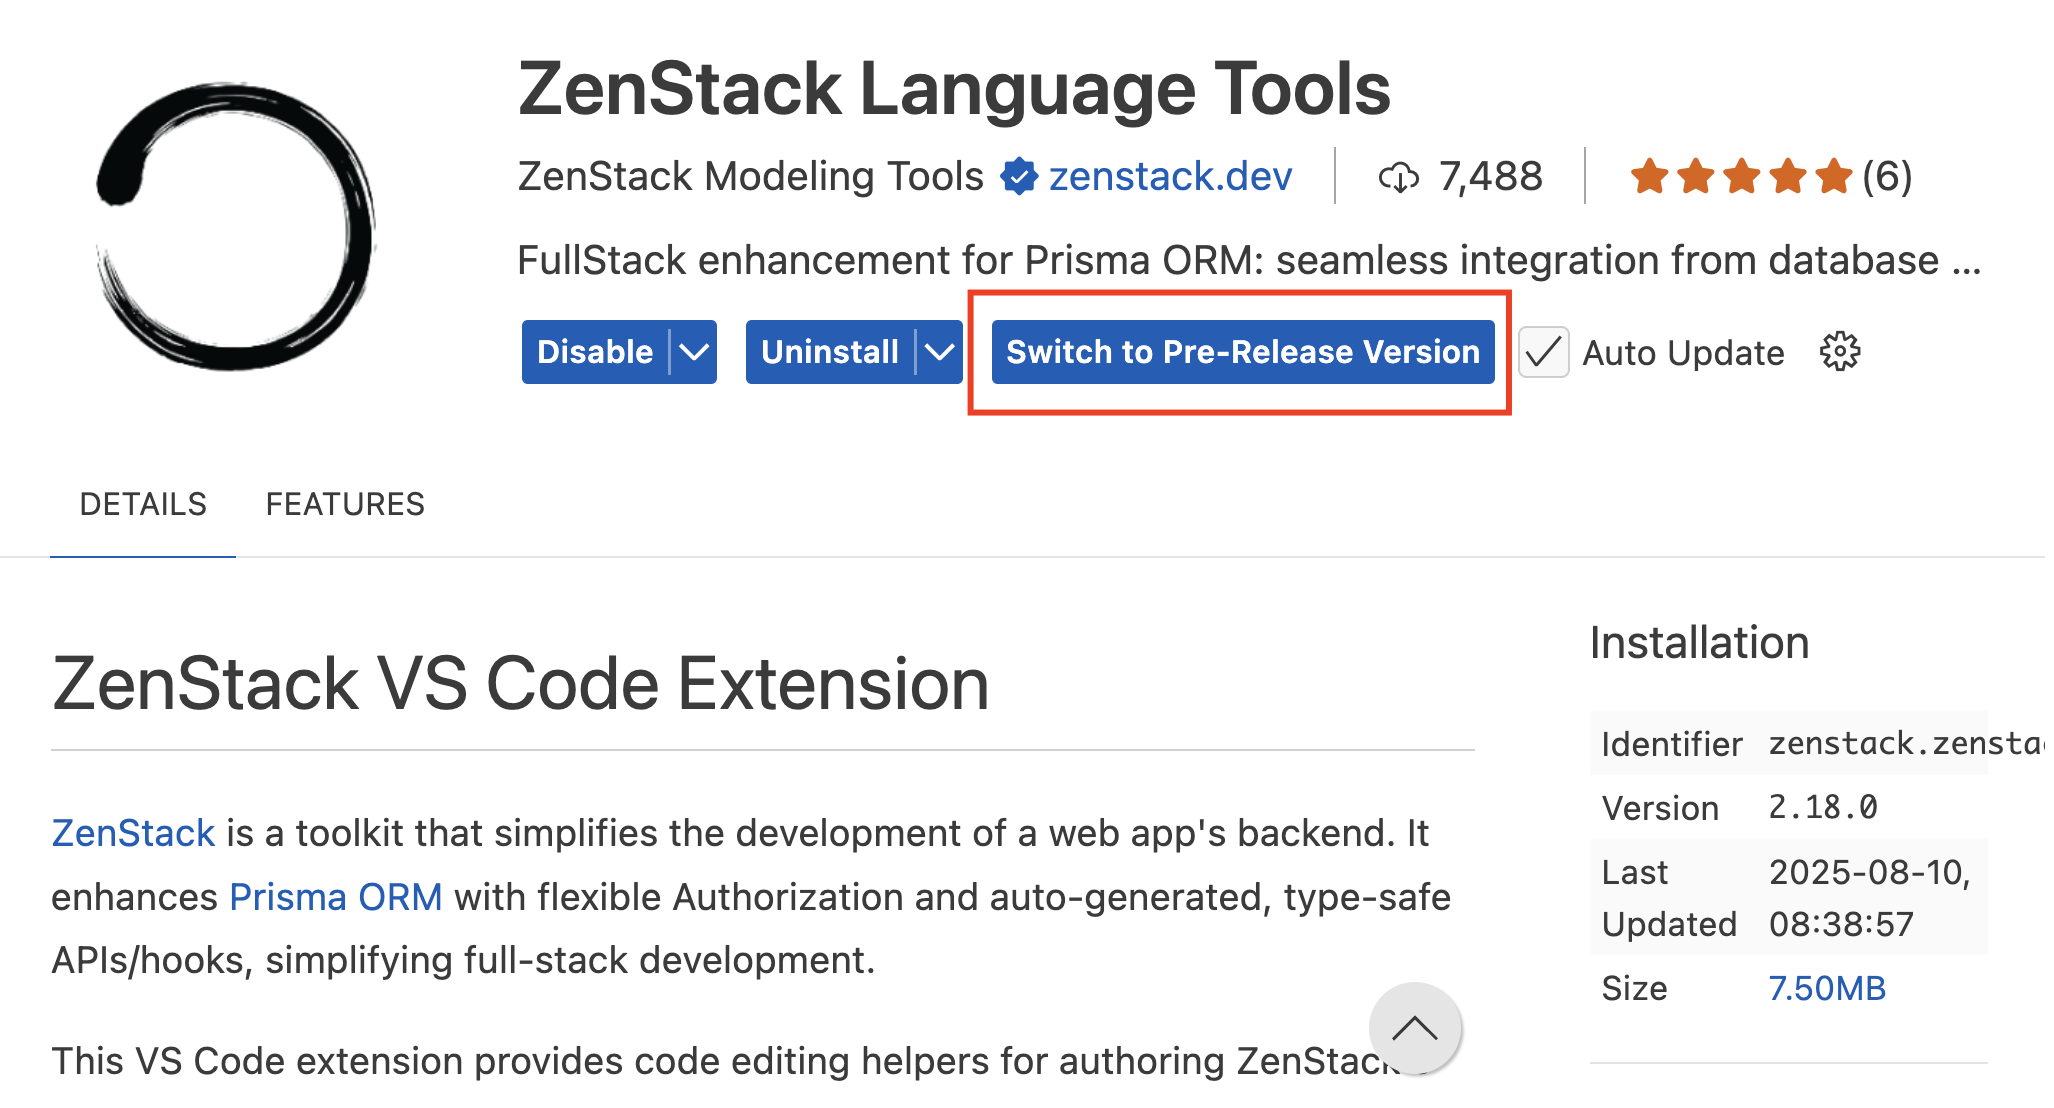
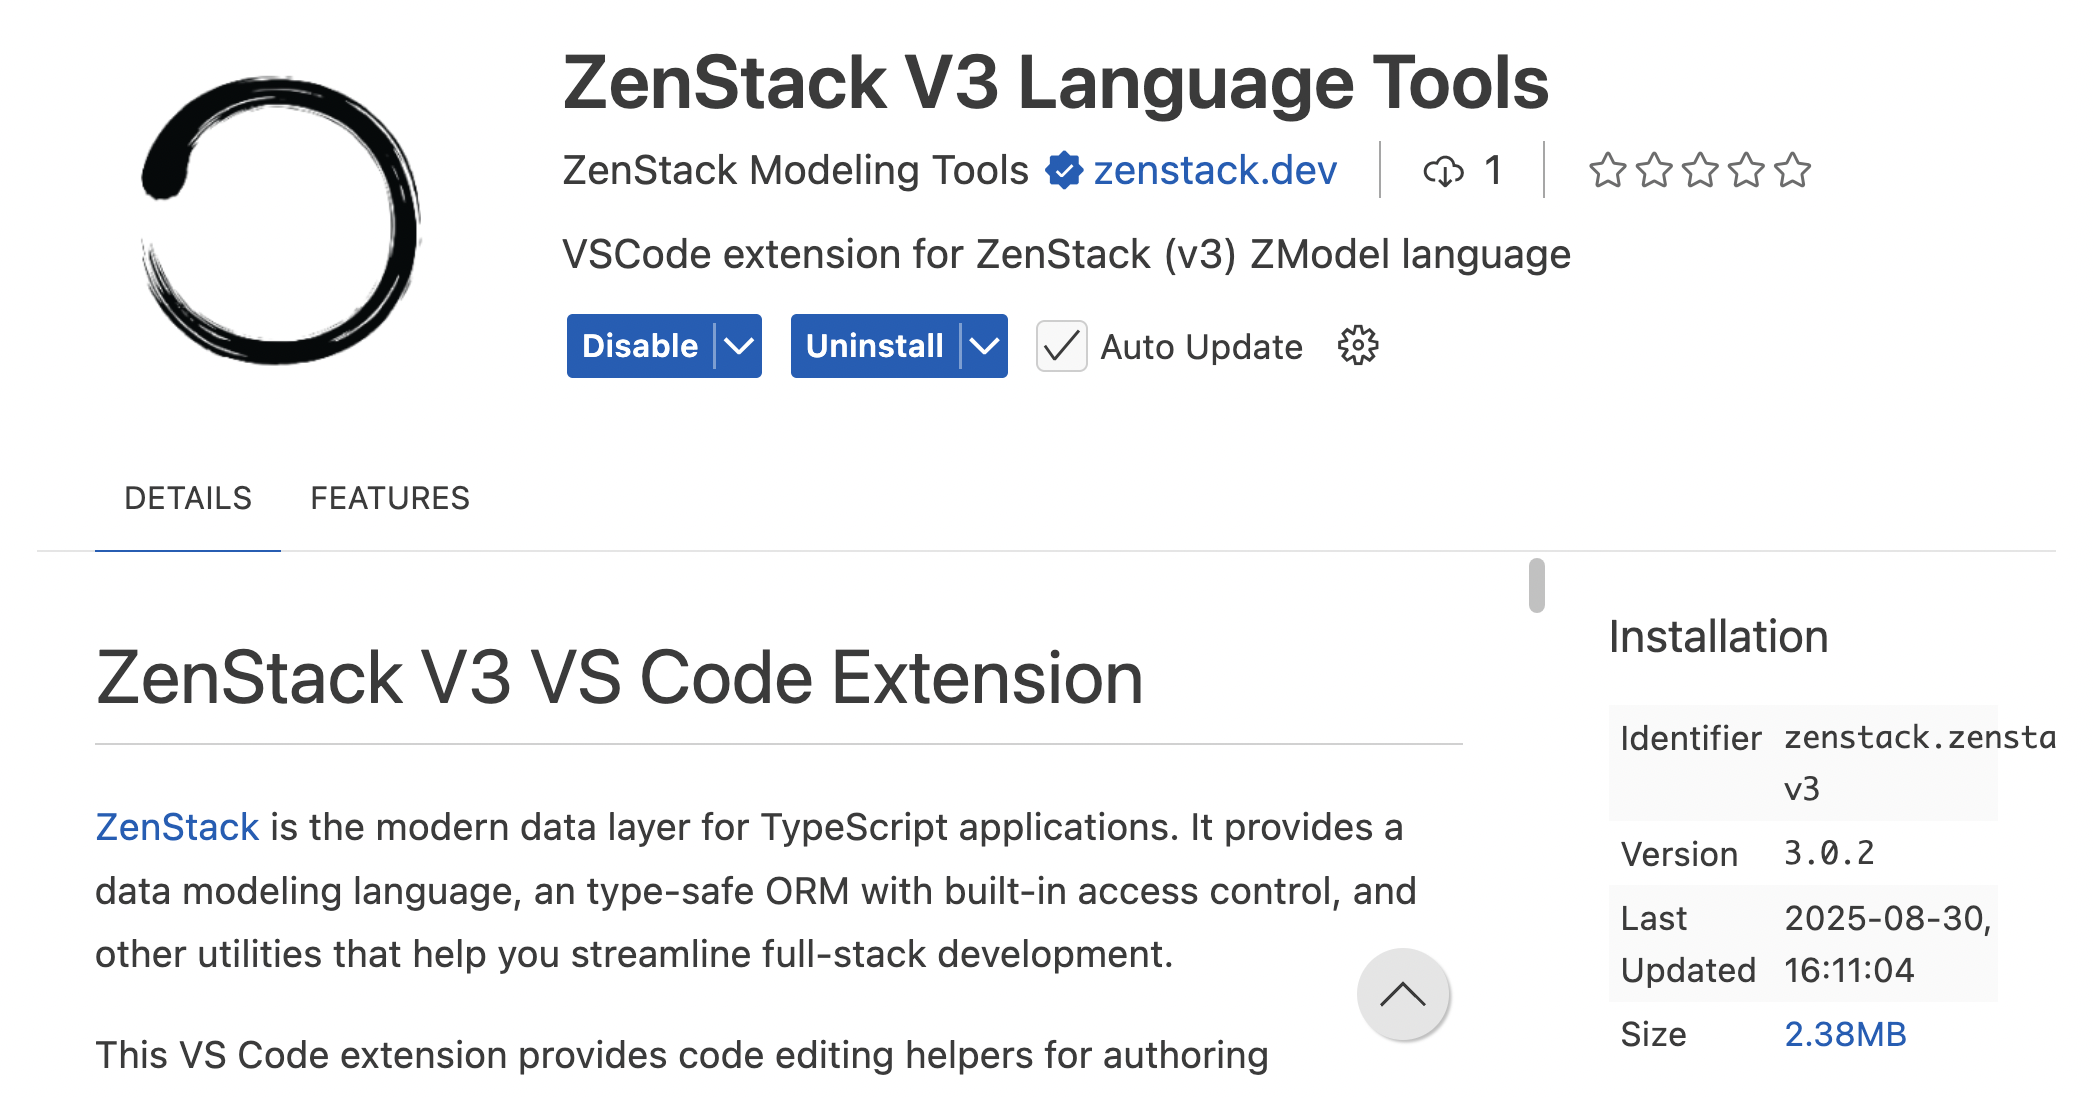
update

diff --git a/src/pages/v3/_components/Notes.tsx b/src/pages/v3/_components/Notes.tsx
@@ -1,18 +1,20 @@
+import Link from '@docusaurus/Link';
+
 export default function Notes(): JSX.Element {
     return (
         <div className="flex flex-col items-start lg:items-center w-full">
             <div className="w-full">
                 <h2 className="flex flex-col lg:flex-row text-xl md:text-2xl lg:text-3xl items-center justify-center pb-4">
-                    <div className="flex items-center">Notes to V2 Users</div>
+                    Notes to V2 Users
                 </h2>
             </div>
             <div className="flex justify-center text-left">
                 <blockquote className="lg:max-w-3/4 text-lg italic">
                     ZenStack V3 has made the bold decision to remove Prisma as a runtime dependency and implement its
-                    own ORM infrastructure on top of <a href="https://kysely.org">Kysely</a>. Albeit the cost of such a
+                    own ORM infrastructure on top of <a href="https://kysely.dev">Kysely</a>. Albeit the cost of such a
                     big refactor, we believe this is the right move to gain the flexibility needed to achieve the
-                    project's vision. Please read this <a href="/blog/next-chapter-1">blog post</a> for more thoughts
-                    behind the changes.
+                    project's vision. Please read this <Link to="/blog/next-chapter-1">blog post</Link> for more
+                    thoughts behind the changes.
                 </blockquote>
             </div>
         </div>

diff --git a/src/pages/v3/_components/Service.tsx b/src/pages/v3/_components/Service.tsx
@@ -27,7 +27,7 @@ export default function Service(): JSX.Element {
                         </li>
                         <li>🚀 Highly customizable</li>
                     </ul>
-                    <span className="lg:text-xl">
+                    <div className="lg:text-xl">
                         <p>
                             Since the ORM is protected with access control, ZenStack can directly map it to an HTTP
                             service. ZenStack provides out-of-the-box integrations with popular frameworks including
@@ -38,7 +38,7 @@ export default function Service(): JSX.Element {
                             derived from the schema, allowing you to make type-safe queries to the service without
                             writing a single line of code.
                         </p>
-                    </span>
+                    </div>
                 </div>
                 <div className="hidden md:block">
                     <Tabs>
@@ -64,7 +64,7 @@ const handler = NextRequestHandler({ getClient });
 
 export {
   handler as GET,
-  handler as PUT
+  handler as PUT,
   handler as POST,
   handler as PATCH,
   handler as DELETE,

diff --git a/src/components/ValueProposition.tsx b/src/components/ValueProposition.tsx
@@ -33,8 +33,8 @@ const FeatureList: FeatureItem[] = [
         img: '/img/ai-friendly.png',
         description: (
             <>
-                Schema-first reduces code complexity, helping AI understand better with fewer hallucinations. 
-                Schema serves as a single source of truth for AI integration.
+                Schema-first reduces code complexity, helping AI understand better with fewer hallucinations. Schema
+                serves as a single source of truth for AI integration.
             </>
         ),
     },
@@ -47,7 +47,7 @@ function Proposition({ title, img, description }: FeatureItem) {
                 <img className="w-48 p-10" src={img} alt={title} />
             </div>
             <div className="text--center padding-horiz--md">
-                <h3 className="text-xl text-bold text-center lg:text-2xl text-gray-700 dark:text-gray-300">{title}</h3>
+                <h3 className="text-xl text-center lg:text-2xl text-gray-700 dark:text-gray-300">{title}</h3>
                 <p className="text-center text-base lg:text-lg text-gray-600 dark:text-gray-400">{description}</p>
             </div>
         </div>

diff --git a/src/pages/v3/_components/AICoding.tsx b/src/pages/v3/_components/AICoding.tsx
@@ -6,7 +6,7 @@ type FeatureItem = {
 
 const FeatureList: FeatureItem[] = [
     {
-        title: 'Coherent Application Model',
+        title: 'Single Source of Truth',
         img: '/img/access-control.png',
         description: (
             <>
@@ -44,7 +44,7 @@ function Proposition({ title, img, description }: FeatureItem) {
                 <img className="w-48 p-10" src={img} alt={title} />
             </div>
             <div className="text--center padding-horiz--md">
-                <h3 className="text-xl text-bold text-center lg:text-2xl text-gray-700 dark:text-gray-300">{title}</h3>
+                <h3 className="text-xl text-center lg:text-2xl text-gray-700 dark:text-gray-300">{title}</h3>
                 <p className="text-center text-base lg:text-lg text-gray-600 dark:text-gray-400">{description}</p>
             </div>
         </div>

diff --git a/src/pages/v3/_components/ORM.tsx b/src/pages/v3/_components/ORM.tsx
@@ -11,12 +11,19 @@ export default function ORM(): JSX.Element {
             <div className="grid grid-cols-1 lg:grid-cols-2 gap-4 p-2 mt-4">
                 <CodeBlock language="ts" className="p-4 hidden md:block xl:text-lg">
                     {`import { schema } from './zenstack';
-import { ZenStackClient } from '@zenstackhq/runtime';
+import {
+  ZenStackClient,
+  AccessControlPlugin
+} from '@zenstackhq/runtime';
 
-const db = new ZenStackClient(schema, { ... });
+const db = new ZenStackClient(schema, { ... })
+  // install access control plugin to enforce policies
+  .$use(new AccessControlPlugin())
+  // set current user context
+  .$setAuth(...);
 
 // high-level query API
-const usersWithPosts = await db.user.findUnique({
+const userWithPosts = await db.user.findUnique({
   where: { id: userId },
   include: { posts: true }
 });

diff --git a/src/pages/v3/_components/ValueProps.tsx b/src/pages/v3/_components/ValueProps.tsx
@@ -38,7 +38,7 @@ function Proposition({ title, img, description }: FeatureItem) {
                 <img className="w-48 p-10" src={img} alt={title} />
             </div>
             <div className="text--center padding-horiz--md">
-                <h3 className="text-xl text-bold text-center lg:text-2xl text-gray-700 dark:text-gray-300">{title}</h3>
+                <h3 className="text-xl text-center lg:text-2xl text-gray-700 dark:text-gray-300">{title}</h3>
                 <p className="text-center text-base lg:text-lg text-gray-600 dark:text-gray-400">{description}</p>
             </div>
         </div>

diff --git a/src/pages/v3/_components/Schema.tsx b/src/pages/v3/_components/Schema.tsx
@@ -39,7 +39,7 @@ export default function SchemaLanguage(): JSX.Element {
 }
 
 model Post {
-  id        Int
+  id        Int     @id
   title     String  @length(1, 255)
   published Boolean @default(false)
   author    User    @relation(fields: [authorId], references: [id])

diff --git a/src/pages/v3/index.module.css b/src/pages/v3/index.module.css
@@ -10,12 +10,6 @@
     overflow: hidden !important;
 }
 
-@media screen and (min-width: 1200px) {
-    .bannerCode code {
-        font-size: 120% !important;
-    }
-}
-
 @media screen and (max-width: 996px) {
     .heroBanner {
         padding-top: 4rem !important;

diff --git a/versioned_docs/version-3.x/reference/cli.md b/versioned_docs/version-3.x/reference/cli.md
@@ -9,7 +9,7 @@ sidebar_label: CLI
 ## Usage
 
 ```
-zenstack [options] [command]
+zen [options] [command]
 
 ζ ZenStack is the data layer for modern TypeScript apps.
 
@@ -36,7 +36,7 @@ Commands:
 Run code generation plugins.
 
 ```bash
-Usage: zenstack generate [options]
+Usage: zen generate [options]
 
 Run code generation plugins.
 
@@ -44,6 +44,7 @@ Options:
   --schema <file>      schema file (with extension .zmodel). Defaults to "zenstack/schema.zmodel" unless
                        specified in package.json.
   -o, --output <path>  default output directory for code generation
+  --silent             suppress all output except errors (default: false)
   -h, --help           display help for command
 ```
 
@@ -52,7 +53,7 @@ Options:
 Run database schema migration related tasks.
 
 ```bash
-Usage: zenstack migrate [options] [command]
+Usage: zen migrate [options] [command]
 
 Run database schema migration related tasks.
 
@@ -77,7 +78,7 @@ For development only. Do not use this command in production.
 :::
 
 ```bash
-Usage: zenstack migrate dev [options]
+Usage: zen migrate dev [options]
 
 Create a migration from changes in schema and apply it to the database.
 
@@ -99,7 +100,7 @@ Never run this command in production. It will drop all data in the database.
 :::
 
 ```bash
-Usage: zenstack migrate reset [options]
+Usage: zen migrate reset [options]
 
 Reset your database and apply all migrations, all data will be lost.
 
@@ -116,7 +117,7 @@ Options:
 Deploy your pending migrations to your production/staging database.
 
 ```bash
-Usage: zenstack migrate deploy [options]
+Usage: zen migrate deploy [options]
 
 Deploy your pending migrations to your production/staging database.
 
@@ -132,7 +133,7 @@ Options:
 Check the status of your database migrations.
 
 ```bash
-Usage: zenstack migrate status [options]
+Usage: zen migrate status [options]
 
 Check the status of your database migrations.
 
@@ -148,7 +149,7 @@ Options:
 Resolve issues with database migrations in deployment databases.
 
 ```bash
-Usage: zenstack migrate resolve [options]
+Usage: zen migrate resolve [options]
 
 Resolve issues with database migrations in deployment databases.
 
@@ -166,7 +167,7 @@ Options:
 Manage your database schema during development.
 
 ```bash
-Usage: zenstack db [options] [command]
+Usage: zen db [options] [command]
 
 Manage your database schema during development.
 
@@ -183,7 +184,7 @@ Commands:
 Push the state from your schema to your database.
 
 ```bash
-Usage: zenstack db push [options]
+Usage: zen db push [options]
 
 Push the state from your schema to your database.
 
@@ -200,7 +201,7 @@ Options:
 Get information of installed ZenStack packages.
 
 ```bash
-Usage: zenstack info [options] [path]
+Usage: zen info [options] [path]
 
 Get information of installed ZenStack.
 
@@ -216,7 +217,7 @@ Options:
 Initialize an existing project for ZenStack.
 
 ```bash
-Usage: zenstack init [options] [path]
+Usage: zen init [options] [path]
 
 Initialize an existing project for ZenStack.
 
@@ -232,7 +233,7 @@ Options:
 Check a ZModel schema for syntax or semantic errors.
 
 ```bash
-Usage: zenstack check [options]
+Usage: zen check [options]
 
 Check a ZModel schema for syntax or semantic errors.
 

diff --git a/versioned_docs/version-3.x/prerequisite.md b/versioned_docs/version-3.x/prerequisite.md
@@ -14,8 +14,18 @@ TypeScript v5.8.0 or above.
 
 ## IDE Extension
 
-If you use VSCode, please install the [ZenStack VSCode Extension](https://marketplace.visualstudio.com/items?itemName=zenstack.zenstack) for syntax highlighting, auto-completion, and error reporting. Make sure you switch to the prerelease version that's compatible with v3.
+If you use VSCode, please install the [ZenStack V3 VSCode Extension](https://marketplace.visualstudio.com/items?itemName=zenstack.zenstack-v3) for syntax highlighting, auto-completion, and error reporting.
 
 ![VSCode Extension](./vscode.png)
+
+If you use both ZenStack v2 and v3 in different projects, you can install the original [ZenStack VSCode Extension](https://marketplace.visualstudio.com/items?itemName=zenstack.zenstack) side-by-side with the v3 extension. The two extensions have different language ids (v2: `zmodel`, v3: `zmodel-v3`) but handle the same `.zmodel` file extension. To avoid conflicts, make sure you specify the language id explicitly in the `.vscode/settings.json` file in your project:
+
+```json
+{
+  "files.associations": {
+    "*.zmodel": "zmodel-v3" // use "zmodel" for ZenStack v2 projects
+  }
+}
+```
 
 Other IDEs are not supported at this time.

diff --git a/versioned_docs/version-3.x/orm/quick-start.md b/versioned_docs/version-3.x/orm/quick-start.md
@@ -24,9 +24,7 @@ Run the following command to scaffold a new project with a pre-configured minima
 npm create zenstack@next my-project
 ```
 
-Or simply use the interactive playground to experience it inside the browser.
-
-<StackBlitzGithub repoPath="zenstackhq/v3-doc-quick-start" />
+Or simply use the [interactive playground](https://stackblitz.com/~/github.com/zenstackhq/v3-doc-quick-start) to experience it inside the browser.
 
 ## 2. Adding to an existing project
 

diff --git a/versioned_docs/version-3.x/modeling/polymorphism.md b/versioned_docs/version-3.x/modeling/polymorphism.md
@@ -76,8 +76,8 @@ erDiagram
 	}
     Content {
         id Int PK
-		name String
-        createdAt Date
+        name String
+        createdAt DateTime
         ownerId Int FK
         type String
     }
